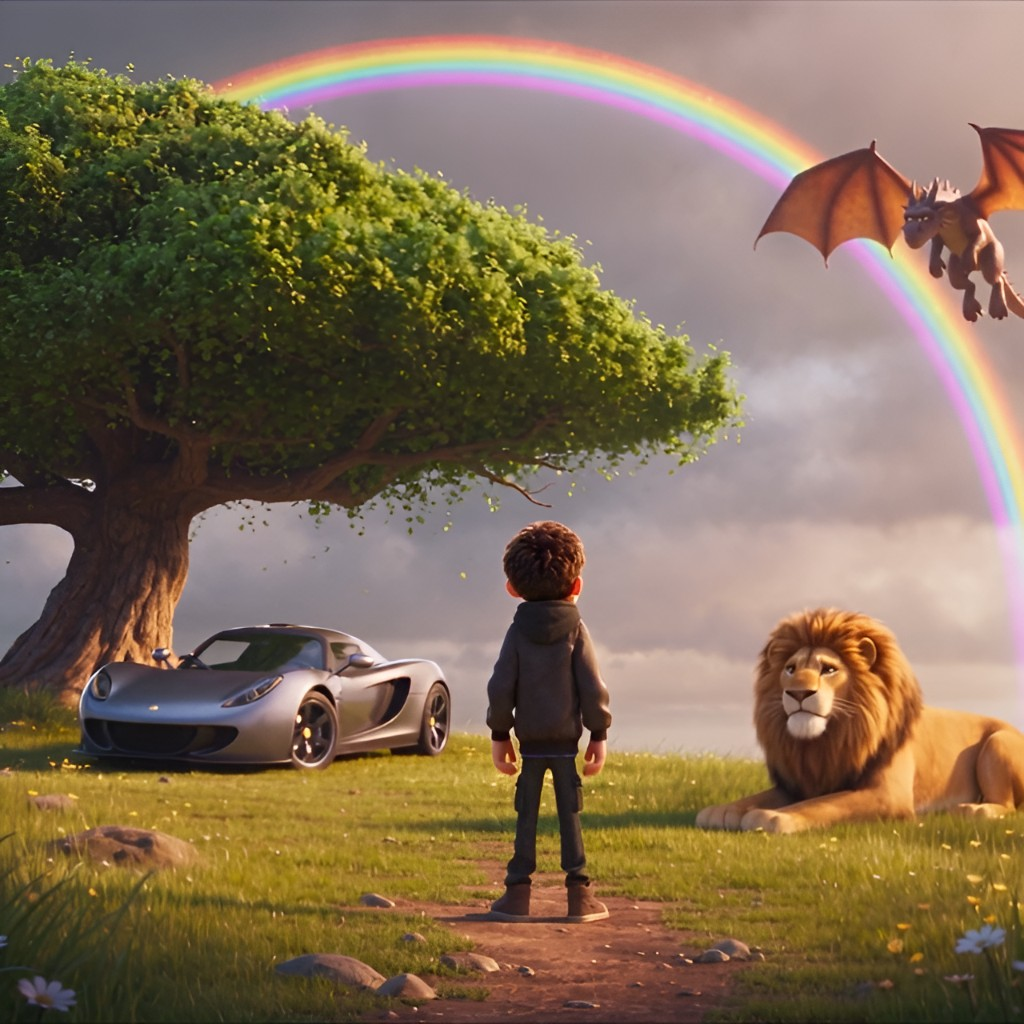
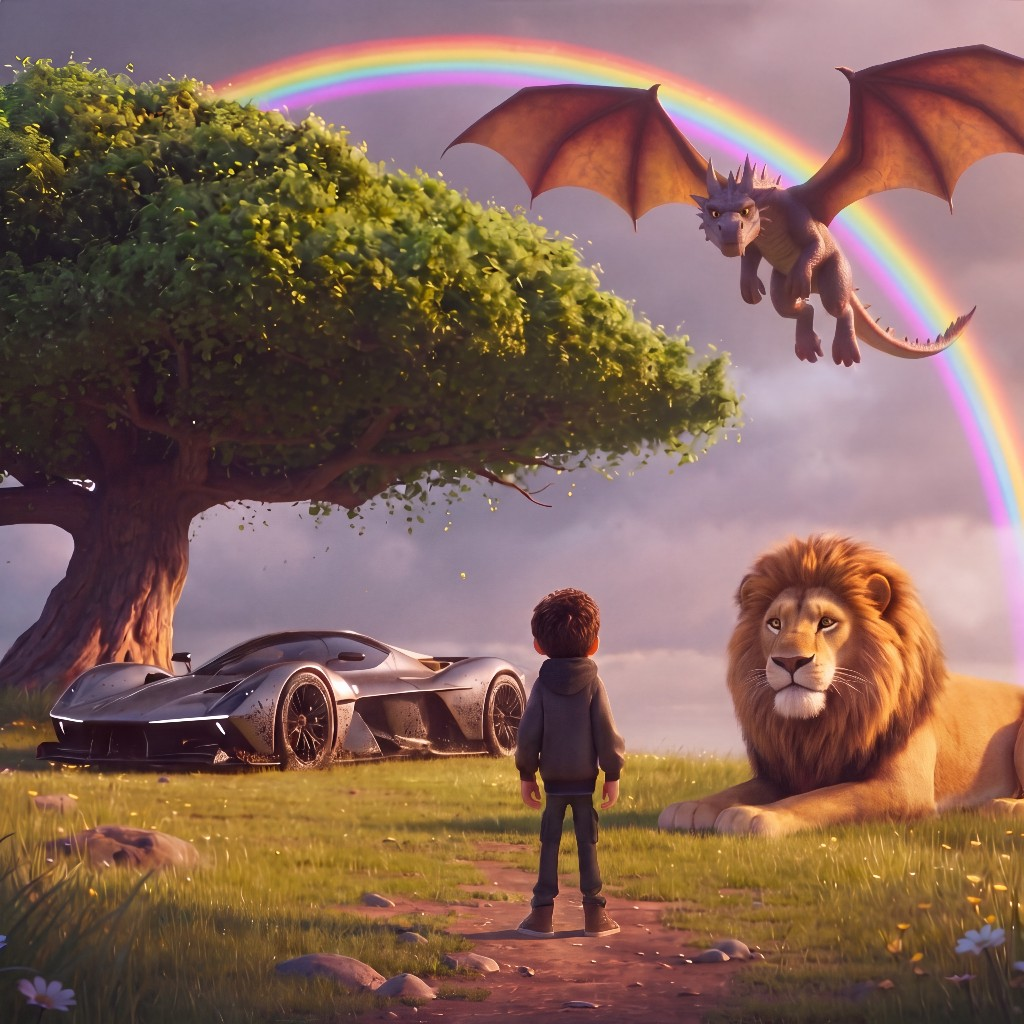
Mettre à jour l'aperçu Animation du formulaire création film.
Nouvelle image et URL v2 pour contourner le cache long des assets film-creation.

diff --git a/src/lib/film-creation/style-picker.ts b/src/lib/film-creation/style-picker.ts
@@ -9,7 +9,7 @@ export const DEFAULT_FILM_CREATION_STYLE: FilmCreationStyle = "realistic";
 /** Remplacez ces fichiers dans `public/film-creation/` (même nom sans .svg ou en .jpg/.webp). */
 export const FILM_STYLE_PREVIEW_SRC: Record<FilmCreationStyle, string> = {
   realistic: "/film-creation/style-realistic.jpg",
-  animation: "/film-creation/style-animation.jpg",
+  animation: "/film-creation/style-animation-v2.jpg",
 };
 
 const STYLE_SET = new Set<string>(FILM_CREATION_STYLES);
